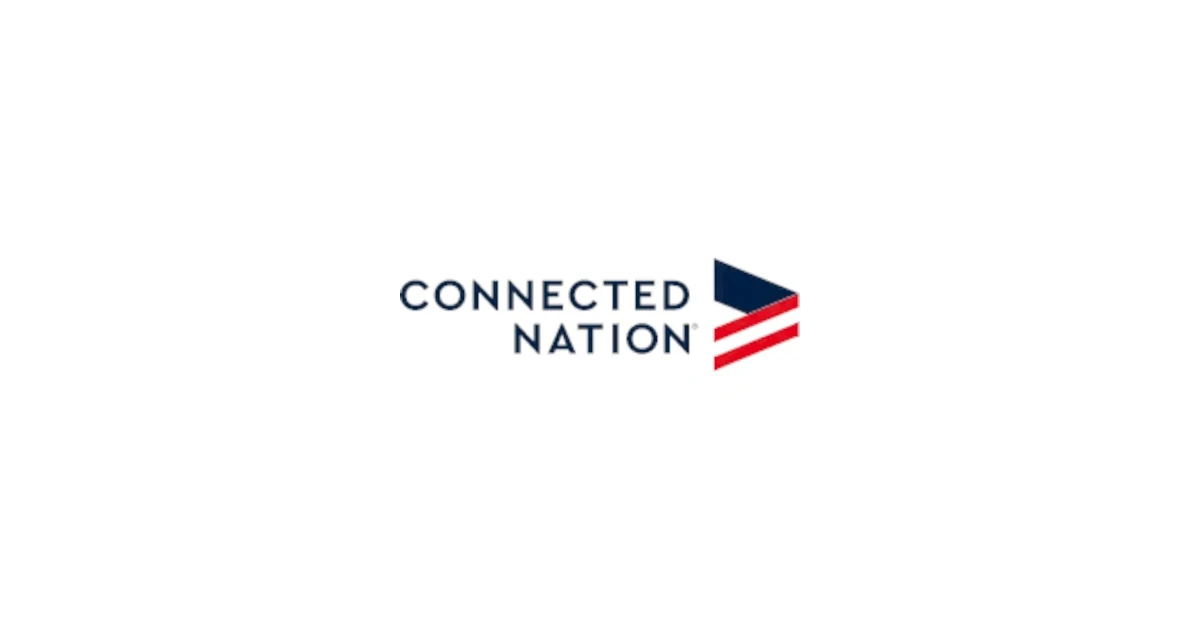
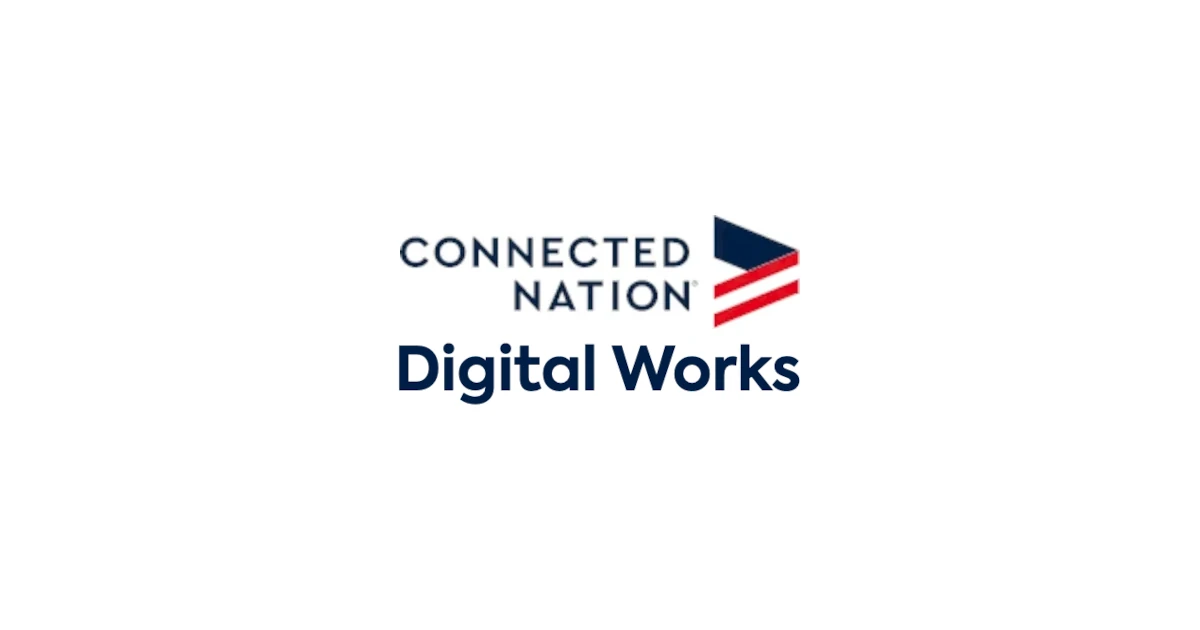
img and css

Changed region(s): [[0.3083, 0.3317, 0.6783, 0.6635]]

diff --git a/css/digital-works/index.css b/css/digital-works/index.css
@@ -18,9 +18,8 @@
 }
 
 body.loading {
-  background-image: url("../../img/digital-works/logo.avif");
+  background-image: url("../../img/digital-works/loading.avif");
   background-color: #fff;
-  background-size: 75%;
 }
 
 .banner .logoState {

diff --git a/css/html.css b/css/html.css
@@ -30,7 +30,6 @@ h2, h3, h4, h5, h6 {
 body.loading {
   background-position: center center;
   background-repeat: no-repeat;
-  background-size: 228px 65px;
 }
 
 body.loading #banner,

diff --git a/css/banner.css b/css/banner.css
@@ -22,7 +22,7 @@
 .banner h1 {
   margin: 0px;
   color: var(--cPrimary);
-  font-size: 2rem;
+  font-size: 3rem;
   line-height: .8em;
 }
 
